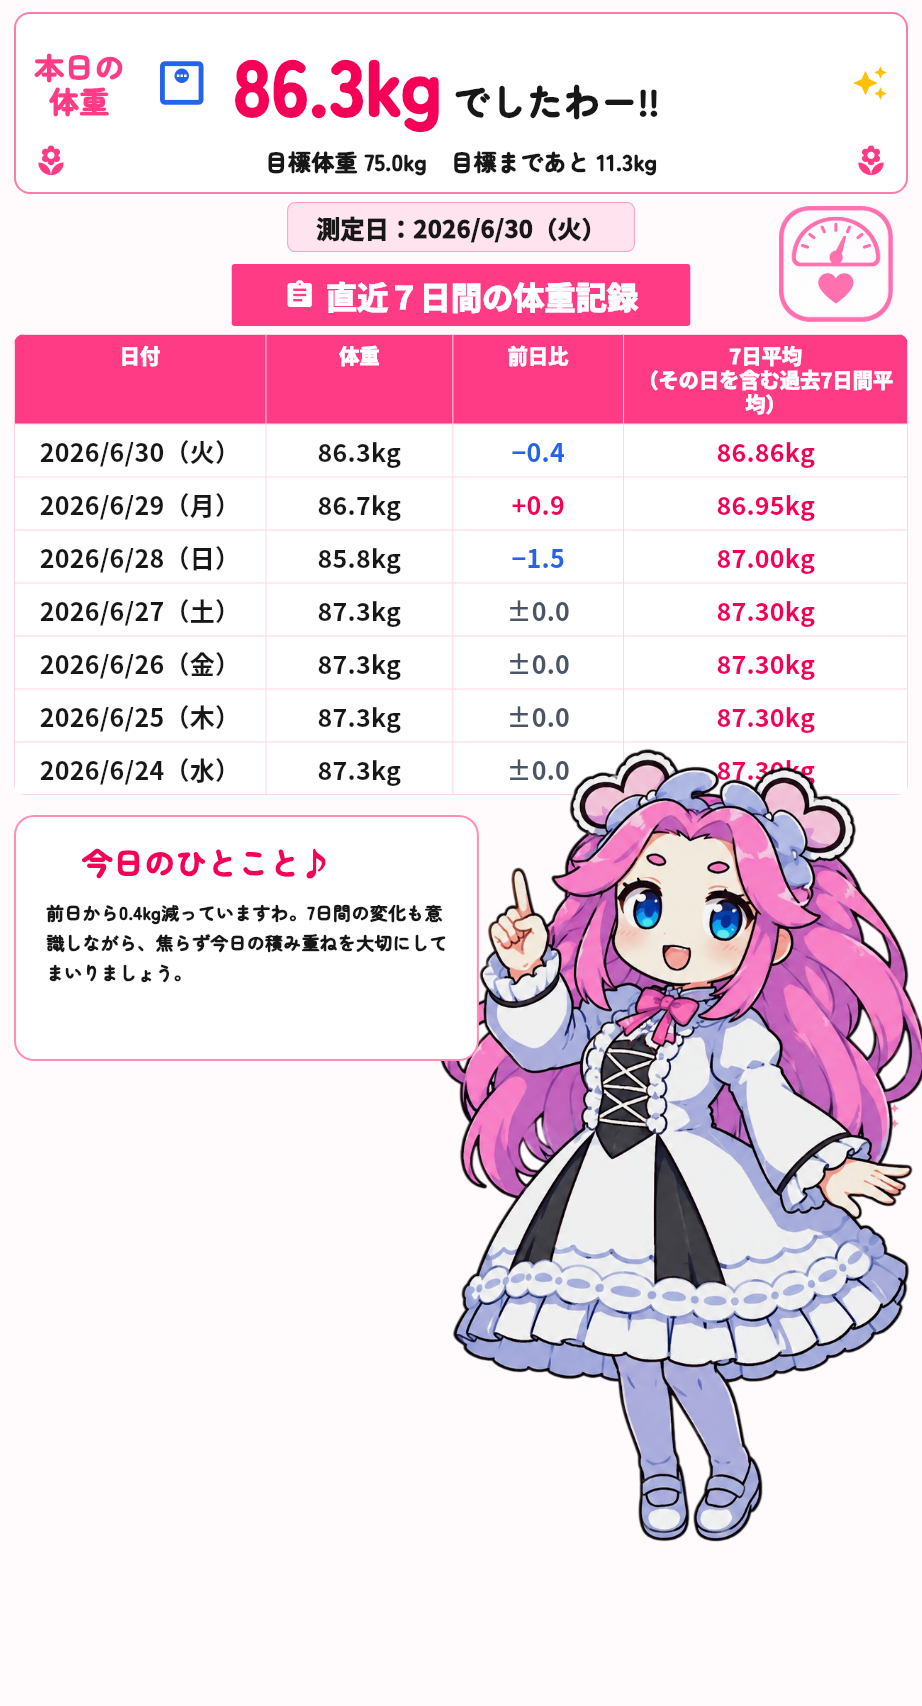
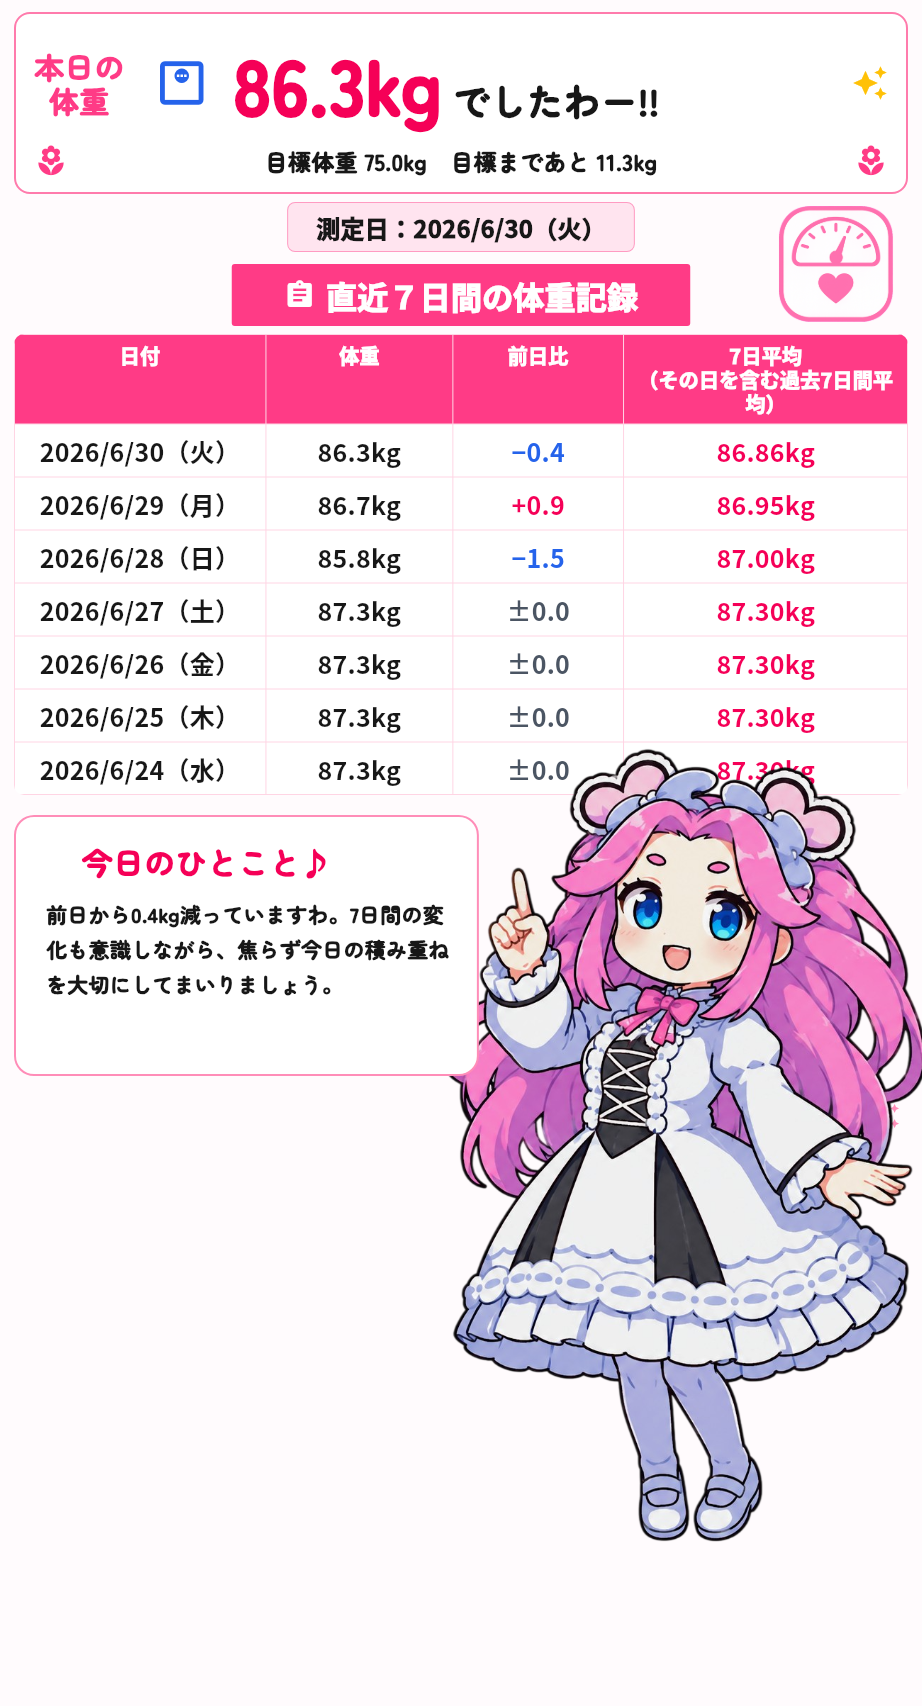
Increase report comment text size

Changed region(s): [[0.0304, 0.5281, 0.4859, 0.5903], [0.4555, 0.6213, 0.5163, 0.6524]]

diff --git a/test/home_screen_golden_test.dart b/test/home_screen_golden_test.dart
@@ -455,6 +455,14 @@ void main() {
     expect(find.textContaining('JST'), findsNothing);
     expect(find.text('🌸 今日のひとこと♪'), findsOneWidget);
     expect(find.textContaining('前日から0.4kg減っていますわ'), findsOneWidget);
+    expect(tester.widget<Text>(find.text('🌸 今日のひとこと♪')).style?.fontSize, 31);
+    expect(
+      tester
+          .widget<Text>(find.textContaining('前日から0.4kg減っていますわ'))
+          .style
+          ?.fontSize,
+      21,
+    );
     expect(find.textContaining('毎日の積み重ねが'), findsNothing);
     expect(find.textContaining('目標まであと'), findsOneWidget);
     expect(find.text('目標体重'), findsNothing);

diff --git a/lib/screens/report_screen.dart b/lib/screens/report_screen.dart
@@ -539,7 +539,7 @@ class _ViewerMessagePanel extends StatelessWidget {
             aiComment,
             style: TextStyle(
               fontFamily: reportAccentFontFamily,
-              fontSize: 18 * scale,
+              fontSize: 21 * scale,
               height: 1.65,
               fontWeight: FontWeight.w900,
             ),
